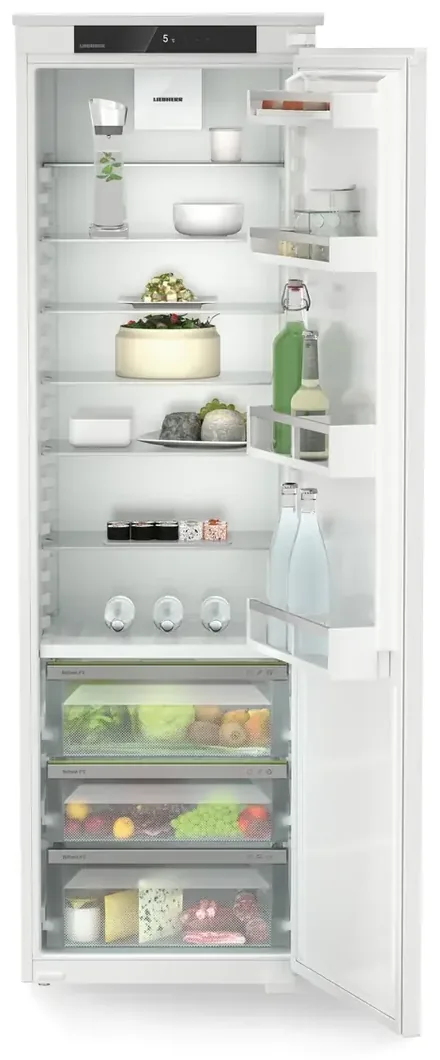
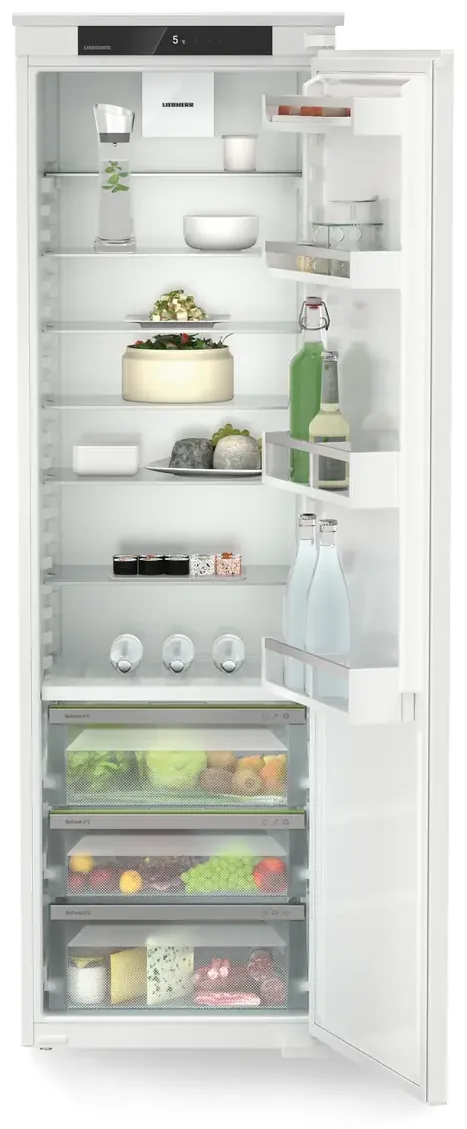
Covers 640 px, Siemens en Bosch op één kaart, ruimere Liebherr-fotoset
Coverbeeld op de kaarten van 400 naar 640 px hoog; de breedte blijft die van
de kaart. Onder 560 px schermbreedte 460 px, omdat 640 px daar bijna het hele
scherm vult.

De Siemens KI81RNSE0 en de Bosch KIR81NSE0 delen nu één kaart met een
merkschakelaar. Ze komen van dezelfde BSH-band: 310 liter, label E, 114 kWh en
35 dB. Wisselen verandert foto, merk, model, prijs, herkomstlabel, nishoogte en
features. De koppeling staat in het nieuwe TWINS in data.js, dus een tweede
paar toevoegen is een kwestie van een regel data.

Daarvoor moest de kaart van <button> naar <article>: de merkschakelaar en de
detailknop zijn zelf knoppen en die mogen niet in een knop genest zitten. Het
toetsenbord komt de kaart nu binnen via de detailknop onderaan. Klikken op de
foto en op de rest van de kaart doet wat het deed.

De sectieteller telt voortaan modellen in plaats van kaarten, zodat 'Volledig
koelkast' 4 blijft zeggen terwijl er drie kaarten staan.

Liebherr van 3 naar 11 foto's: BioFresh-lades, de 0°C-zone, plateaus,
deurvakken, eierhouder, het PowerCooling-filter, de bediening, de maatschets en
de versheidstabel. De detailopnames komen via de vakhandel; de twee
coverbeelden blijven van de Liebherr-CDN, want die zijn scherper (1280 px hoog
tegen 859). De oude 'deur dicht'-opname is vervallen.

Claude-Session: https://claude.ai/code/session_015vFDqxGaSsQGdmN2xcd3Bq

diff --git a/assets/app.js b/assets/app.js
@@ -80,24 +80,49 @@
     return cmp ? list.slice().sort(cmp) : list.slice();
   }
 
-  function fridgesIn(group) {
-    return sorted(FRIDGES.filter(function (f) { return f.group === group; }));
+  function byId(id) {
+    return FRIDGES.filter(function (f) { return f.id === id; })[0];
   }
 
-  /* De vergelijktabel volgt dezelfde volgorde als de secties. */
+  function twinOf(f) {
+    return TWINS.filter(function (t) {
+      return t.members.indexOf(f.id) !== -1;
+    })[0];
+  }
+
+  /* Welk lid van een tweeling op dit moment op de kaart staat. */
+  const activeTwin = {};
+  TWINS.forEach(function (t) { activeTwin[t.id] = t.members[0]; });
+
+  function fridgesIn(group) {
+    return sorted(FRIDGES.filter(function (f) {
+      if (f.group !== group) return false;
+      const t = twinOf(f);
+      /* Van een tweeling staat alleen het gekozen merk op het overzicht. */
+      return !t || activeTwin[t.id] === f.id;
+    }));
+  }
+
+  /* De vergelijktabel toont alle modellen, ook het merk dat nu niet op de
+     kaart staat, in dezelfde volgorde als de secties. */
   function visibleFridges() {
     return SECTIONS.reduce(function (all, s) {
-      return all.concat(fridgesIn(s.group));
+      return all.concat(sorted(FRIDGES.filter(function (f) {
+        return f.group === s.group;
+      })));
     }, []);
   }
 
   /* ---------- kaarten ---------- */
 
+  /* De kaart is geen knop meer: de merkschakelaar en de detailknop zijn zelf
+     knoppen, en die mogen niet in een knop genest zitten. */
   function cardHtml(f) {
     const badge = badgeFor(f);
+    const twin = twinOf(f);
     return '' +
-      '<button class="card" style="--accent:' + f.accent + '" data-id="' + f.id + '" ' +
-        'aria-label="Details van ' + f.brand + ' ' + f.model + '">' +
+      '<article class="card' + (twin ? ' is-twin' : '') + '" ' +
+        'style="--accent:' + f.accent + '" data-id="' + f.id + '">' +
         '<div class="card-media" data-zoom>' +
           cardMedia(f) +
           '<span class="badge-type">' + f.nicheLabel + '</span>' +
@@ -105,6 +130,7 @@
           '<span class="card-zoom" aria-hidden="true">Foto vergroten</span>' +
         '</div>' +
         '<div class="card-body">' +
+          (twin ? twinToggle(twin, f) : '') +
           '<p class="card-brand">' + f.brand + '</p>' +
           '<h2 class="card-model">' + f.model + '</h2>' +
           '<p class="card-series">' + f.series + '</p>' +
@@ -118,12 +144,30 @@
             stat('Hoogte', f.heightLabel) +
             stat('Geluid', f.noiseDb + ' dB') +
           '</div>' +
+          (twin ? '<p class="twin-note">' + twin.differs + '</p>' : '') +
           '<ul class="card-features">' +
             f.highlights.map(function (h) { return '<li>' + h + '</li>'; }).join('') +
           '</ul>' +
-          '<p class="card-cta">Bekijk foto&rsquo;s, beschrijving &amp; specificaties &rarr;</p>' +
+          '<button type="button" class="card-open">' +
+            'Bekijk foto&rsquo;s, beschrijving &amp; specificaties &rarr;</button>' +
         '</div>' +
-      '</button>';
+      '</article>';
+  }
+
+  /* Twee merken op één kaart: de schakelaar wisselt welk model getoond wordt. */
+  function twinToggle(t, active) {
+    return '<div class="twin-head">' +
+      '<div class="twin-toggle" role="group" aria-label="Kies merk">' +
+        t.members.map(function (id) {
+          const m = byId(id);
+          const on = id === active.id;
+          return '<button type="button" class="twin-btn' + (on ? ' is-on' : '') +
+            '" data-twin="' + t.id + '" data-member="' + id + '" ' +
+            'aria-pressed="' + on + '">' + m.brand + '</button>';
+        }).join('') +
+      '</div>' +
+      '<p class="twin-shared">' + t.shared + '</p>' +
+    '</div>';
   }
 
   /* De eerste foto uit de galerij is het kaartbeeld. */
@@ -166,10 +210,13 @@
     sections.innerHTML = SECTIONS.map(function (s) {
       const list = fridgesIn(s.group);
       if (!list.length) return '';
+      /* Tel modellen, niet kaarten: een tweeling is één kaart maar twee
+         modellen, en de tabel eronder toont ze allebei. */
+      const total = FRIDGES.filter(function (f) { return f.group === s.group; }).length;
       return '<section class="model-section" aria-labelledby="sec-' + s.group + '">' +
         '<div class="section-head">' +
           '<h2 id="sec-' + s.group + '">' + s.title +
-            '<span class="section-count">' + list.length + '</span></h2>' +
+            '<span class="section-count">' + total + '</span></h2>' +
           '<p class="section-blurb">' + s.blurb + '</p>' +
         '</div>' +
         '<div class="grid">' + list.map(cardHtml).join('') + '</div>' +
@@ -373,14 +420,29 @@
     renderTable();
   });
 
-  /* Op de foto klikken vergroot hem meteen; elders op de kaart opent het
-     detailvenster. */
+  /* Op de foto klikken vergroot hem meteen; de merkschakelaar wisselt van
+     model; elders op de kaart opent het detailvenster. */
   sections.addEventListener('click', function (e) {
     const card = e.target.closest('.card');
     if (!card) return;
+    const twinBtn = e.target.closest('[data-twin]');
+    if (twinBtn) {
+      switchTwin(twinBtn.dataset.twin, twinBtn.dataset.member);
+      return;
+    }
     if (e.target.closest('[data-zoom]')) openPhotoFor(card.dataset.id);
     else openModal(card.dataset.id);
   });
+
+  function switchTwin(twinId, memberId) {
+    if (activeTwin[twinId] === memberId) return;
+    activeTwin[twinId] = memberId;
+    renderSections();
+    /* De kaart is opnieuw opgebouwd; zet de focus terug op de knop. */
+    const btn = sections.querySelector(
+      '[data-twin="' + twinId + '"][data-member="' + memberId + '"]');
+    if (btn) btn.focus();
+  }
 
   tableBody.addEventListener('click', function (e) {
     const row = e.target.closest('tr');

diff --git a/assets/style.css b/assets/style.css
@@ -159,16 +159,13 @@ h1 {
   background: var(--surface);
   box-shadow: var(--shadow-sm);
   cursor: pointer;
-  font: inherit;
-  color: inherit;
   overflow: hidden;
   transition: transform .18s ease, box-shadow .18s ease, border-color .18s ease;
 }
-.card:hover, .card:focus-visible {
+.card:hover, .card:focus-within {
   transform: translateY(-3px);
   box-shadow: var(--shadow-md);
   border-color: var(--ink-3);
-  outline: none;
 }
 .card::before {
   content: "";
@@ -187,9 +184,8 @@ h1 {
   justify-content: center;
   cursor: zoom-in;
 }
-/* Hoger dan voorheen (262 px) zodat staande kasten meer ruimte krijgen; de
-   breedte blijft die van de kaart. */
-.card-media .fridge-photo { height: 400px; width: 100%; }
+/* Coverbeeld 640 px hoog; de breedte blijft die van de kaart. */
+.card-media .fridge-photo { height: 640px; width: 100%; }
 .card-zoom {
   position: absolute;
   left: 50%;
@@ -209,8 +205,9 @@ h1 {
 }
 .card-media:hover .card-zoom { opacity: 1; }
 
-@media (max-width: 520px) {
-  .card-media .fridge-photo { height: 320px; }
+/* Op een telefoon vult 640 px bijna het hele scherm; daar iets lager. */
+@media (max-width: 560px) {
+  .card-media .fridge-photo { height: 460px; }
 }
 
 .badge-type {
@@ -335,12 +332,65 @@ h1 {
   color: var(--ink-2);
 }
 
-.card-cta {
+/* De detailknop is de plek waar het toetsenbord de kaart binnenkomt. */
+.card-open {
   margin-top: auto;
-  padding-top: 16px;
+  padding: 16px 0 0;
+  border: 0;
+  background: none;
+  text-align: left;
+  font: inherit;
   font-size: 13px;
   font-weight: 650;
   color: var(--brand);
+  cursor: pointer;
+}
+.card-open:hover { text-decoration: underline; }
+
+/* ---------- twee merken op één kaart ---------- */
+
+.twin-head {
+  margin: 0 0 12px;
+  padding-bottom: 12px;
+  border-bottom: 1px solid var(--line-soft);
+}
+.twin-toggle {
+  display: inline-flex;
+  padding: 3px;
+  gap: 3px;
+  border: 1px solid var(--line);
+  border-radius: 999px;
+  background: var(--surface-2);
+}
+.twin-btn {
+  appearance: none;
+  border: 0;
+  background: none;
+  border-radius: 999px;
+  padding: 5px 14px;
+  font: inherit;
+  font-size: 12.5px;
+  font-weight: 700;
+  color: var(--ink-3);
+  cursor: pointer;
+  transition: background .15s, color .15s;
+}
+.twin-btn:hover { color: var(--ink); }
+.twin-btn.is-on {
+  background: var(--ink);
+  color: var(--bg);
+}
+.twin-shared {
+  margin: 8px 0 0;
+  font-size: 12px;
+  line-height: 1.45;
+  color: var(--ink-3);
+}
+.twin-note {
+  margin: 12px 0 0;
+  font-size: 12px;
+  line-height: 1.45;
+  color: var(--ink-3);
 }
 
 /* ---------- vergelijktabel ---------- */

diff --git a/assets/data.js b/assets/data.js
@@ -197,9 +197,17 @@ const FRIDGES = [
     photos: [
       { src: 'assets/photos/liebherr-irbsd-5120/01-productfoto.webp', label: 'Productfoto' },
       { src: 'assets/photos/liebherr-irbsd-5120/02-interieur.webp', label: 'Interieur' },
-      { src: 'assets/photos/liebherr-irbsd-5120/03-deur-dicht.webp', label: 'Deur dicht' }
+      { src: 'assets/photos/liebherr-irbsd-5120/03-biofresh-lades.webp', label: 'BioFresh-lades' },
+      { src: 'assets/photos/liebherr-irbsd-5120/04-biofresh-zone.webp', label: 'BioFresh 0°C' },
+      { src: 'assets/photos/liebherr-irbsd-5120/05-plateaus.webp', label: 'Plateaus' },
+      { src: 'assets/photos/liebherr-irbsd-5120/06-deurvakken.webp', label: 'Deurvakken' },
+      { src: 'assets/photos/liebherr-irbsd-5120/07-eierhouder.webp', label: 'Eierhouder' },
+      { src: 'assets/photos/liebherr-irbsd-5120/08-powercooling.webp', label: 'PowerCooling' },
+      { src: 'assets/photos/liebherr-irbsd-5120/09-bediening.webp', label: 'Bediening' },
+      { src: 'assets/photos/liebherr-irbsd-5120/10-maatschets.webp', label: 'Maatschets' },
+      { src: 'assets/photos/liebherr-irbsd-5120/11-versheidstabel.webp', label: 'Versheidstabel' }
     ],
-    photoCredit: 'Productfoto’s: Liebherr-Hausgeräte.',
+    photoCredit: 'Productfoto’s: Liebherr-Hausgeräte; de detailopnames via Bemmel en Kroon.',
     photoUrl: 'https://www.liebherr.com/nl-nl/p/irbsd-5120-3093352',
     photoLabel: 'Foto’s op Liebherr.nl',
     expertUrl: 'https://www.expert.nl/liebherr-irbsd-5120-22-372636963'
@@ -489,6 +497,18 @@ const FRIDGES = [
     photoUrl: 'https://www.aeg.nl/kitchen/cooling/fridge-freezers/built-in-fridge-freezer/osc7c181ds/',
     photoLabel: 'Foto’s op AEG.nl',
     expertUrl: 'https://www.expert.nl/zoeken?q=OSC7C181DS'
+  }
+];
+
+/* Modellen die op één kaart samenkomen met een merkschakelaar. De Siemens en
+ * de Bosch rollen van dezelfde BSH-band: gelijke inhoud, label, verbruik en
+ * geluidsniveau. Wat verschilt staat in `differs`. */
+const TWINS = [
+  {
+    id: 'bsh-310',
+    members: ['siemens-ki81rnse0', 'bosch-kir81nse0'],
+    shared: 'Dezelfde BSH-techniek: 310 liter, label E, 114 kWh/jaar en 35 dB.',
+    differs: 'Verschil zit in merk, prijs, breedte/nis en de indeling van lades en deurvakken.'
   }
 ];
 

diff --git a/index.html b/index.html
@@ -18,7 +18,9 @@
       Zeven inbouwmodellen, verdeeld over drie secties: volledige koelkasten,
       koelvries combi's die een hogere nis vragen, en de combi die in de huidige
       nis past. Klik op een foto om hem groot te bekijken, of ergens anders op de
-      kaart voor de beschrijving en de volledige specificatielijst.
+      kaart voor de beschrijving en de volledige specificatielijst. De Siemens en
+      de Bosch delen één kaart — ze rollen van dezelfde band — met een schakelaar
+      om tussen de twee merken te wisselen.
     </p>
     <p class="lede-note">
       De vier AEG-modellen staan op de offerte van Expert Twello

diff --git a/README.md b/README.md
@@ -1,10 +1,11 @@
 # Koelkast-keuzehulp
 
-Visueel overzicht van zeven inbouwmodellen: per koelkast een kaart met foto,
-prijs, energielabel, hoogte, geluidsniveau en unieke features. De pagina toont
-alles tegelijk, opgedeeld in drie secties. Klik op de foto van een kaart om hem
-op volledige schermgrootte te bekijken; klik ergens anders op de kaart voor de
-fotogalerij, de beschrijving en de volledige specificatielijst.
+Visueel overzicht van zeven inbouwmodellen: per koelkast een kaart met een
+coverfoto van 640 px hoog, prijs, energielabel, hoogte, geluidsniveau en unieke
+features. De pagina toont alles tegelijk, opgedeeld in drie secties. Klik op de
+foto van een kaart om hem op volledige schermgrootte te bekijken; klik ergens
+anders op de kaart voor de fotogalerij, de beschrijving en de volledige
+specificatielijst.
 
 **Live:** https://triqper.github.io/koelkast/
 
@@ -12,12 +13,34 @@ fotogalerij, de beschrijving en de volledige specificatielijst.
 
 | Sectie | Wat erin staat |
 |---|---|
-| Volledig koelkast | Geen vriesvak — 4 modellen |
+| Volledig koelkast | Geen vriesvak — 4 modellen op 3 kaarten |
 | Koelvries combi — hoog | Nis 189,4 cm, plank moet verzet worden — 2 modellen |
 | Koelvries combi — huidige maat | Nis 178 cm, past direct — alleen de AEG OSC7C181DS |
 
 De secties komen uit het veld `group` in `assets/data.js`. Het sorteermenu
-sorteert binnen elke sectie afzonderlijk.
+sorteert binnen elke sectie afzonderlijk. De teller bij een sectiekop telt
+modellen, niet kaarten.
+
+## Twee merken op één kaart
+
+De Siemens KI81RNSE0 en de Bosch KIR81NSE0 komen van dezelfde BSH-band: gelijke
+inhoud (310 l), label E, 114 kWh/jaar en 35 dB. Ze delen daarom één kaart met een
+merkschakelaar; de kaart wisselt dan van foto, prijs, model, nishoogte en
+features. Dit staat in `TWINS` in `assets/data.js`:
+
+```js
+const TWINS = [
+  {
+    id: 'bsh-310',
+    members: ['siemens-ki81rnse0', 'bosch-kir81nse0'],
+    shared: 'Wat de twee gemeen hebben.',
+    differs: 'Waarin ze verschillen.'
+  }
+];
+```
+
+Het eerste lid staat standaard op de kaart. De vergelijktabel onderaan de pagina
+toont beide modellen altijd, ongeacht wat de schakelaar doet.
 
 ## Modellen
 
@@ -62,13 +85,13 @@ sorteert binnen elke sectie afzonderlijk.
 
 Alle zeven modellen hebben echte productfoto's van de fabrikant, in
 `assets/photos/<model-id>/`. Ze zijn teruggebracht tot maximaal 1200 px, als webp
-opgeslagen en van hun witte canvasranden ontdaan; samen ongeveer 1,8 MB.
+opgeslagen en van hun witte canvasranden ontdaan; samen ongeveer 2,3 MB.
 
 | Model | Foto's | Bron |
 |---|---|---|
 | Siemens KI81RNSE0 | 5 | mediaserver BSH Home Appliances |
 | Bosch KIR81NSE0 | 5 | mediaserver BSH Home Appliances |
-| Liebherr IRBSd 5120 | 3 | asset-CDN Liebherr-Hausgeräte |
+| Liebherr IRBSd 5120 | 11 | Liebherr-CDN (cover) + vakhandel (details) |
 | AEG TK6FS181DS | 7 | AEG-beeld via Expert.nl |
 | AEG OSC7C181DS | 8 | AEG-beeld via Expert.nl |
 | AEG NSC7C191DS | 7 | AEG-beeld via de vakhandel |
@@ -124,7 +147,7 @@ terugvaloptie meer.
 index.html                 pagina-opbouw
 assets/style.css           styling, licht + donker thema
 assets/data.js             de dataset (specs, prijzen, features, beschrijvingen)
-assets/app.js              secties, sortering, detailvenster, vergroting
+assets/app.js              secties, merkschakelaar, sortering, detailvenster, vergroting
 assets/photos/<model-id>/  productfoto's per model
 ```
 
